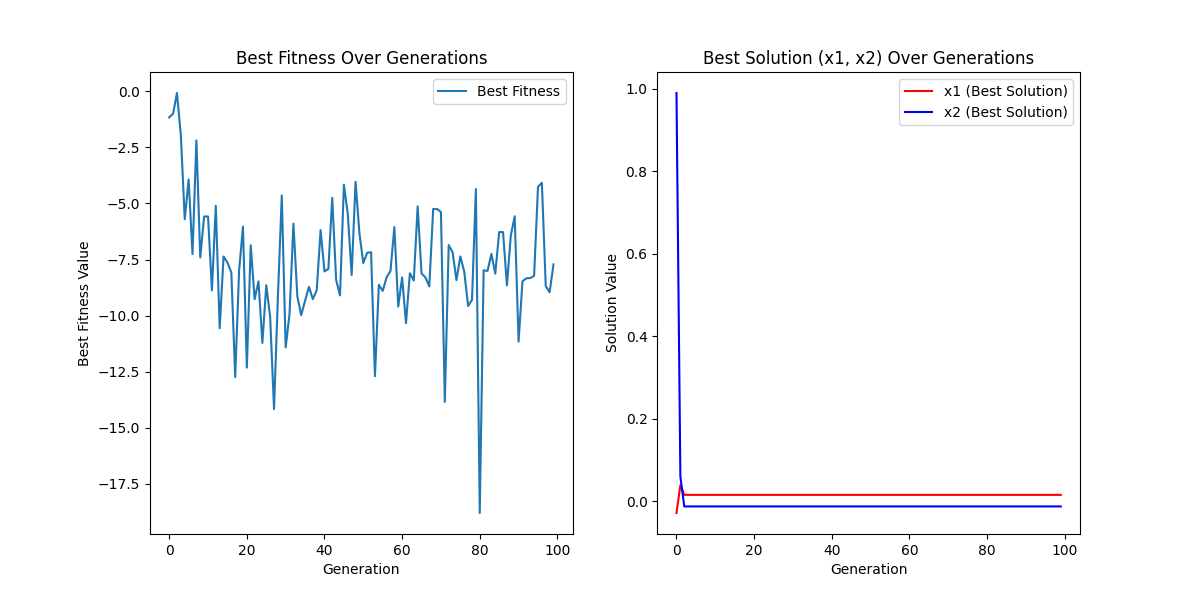
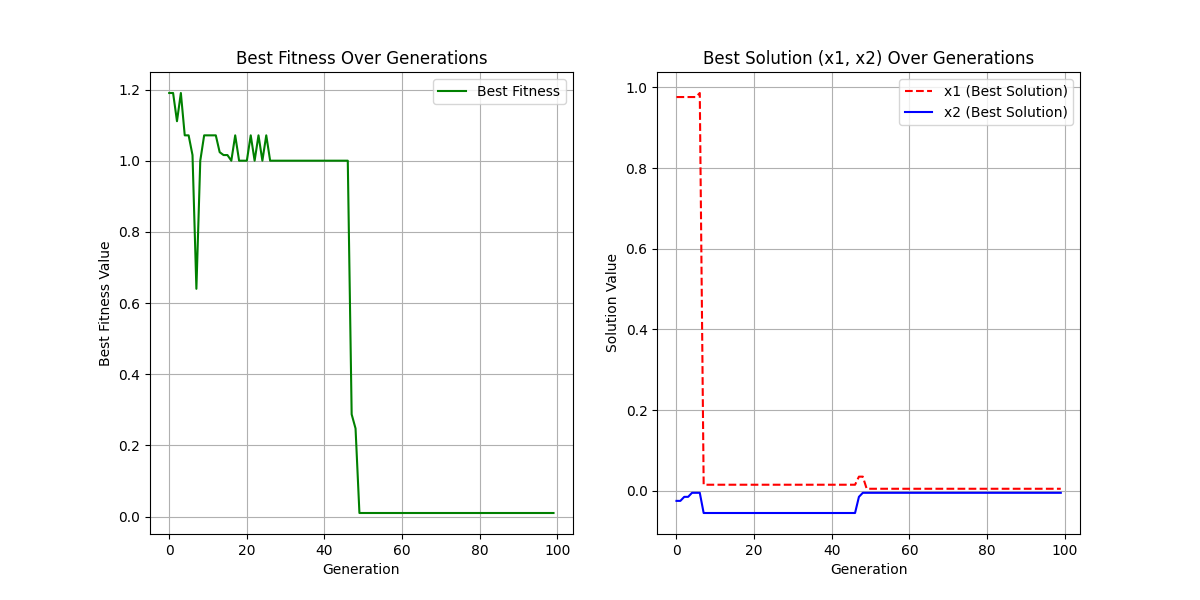
new

diff --git a/AIB_experi/minRastrigin.py b/AIB_experi/minRastrigin.py
@@ -14,7 +14,7 @@ def initialize_population(pop_size, chrom_length):  # pop_size:种群大小， c
 # 将二进制染色体解码为实际变量值(处理单个染色体)
 def decode_chromosome(chrom, bounds):  # bounds:变量的范围
     n_vars = len(bounds)  # 确定有多少个变量， n_vars=2
-    vars_length = len(chrom) // n_vars  # 每个变量对应染色体二进制长度的一半, vars_length=50
+    vars_length = len(chrom) // n_vars  # 每个变量对应染色体二进制长度的一半, vars_length=10
     decoded = []  # 存储解码后的变量值
     for i, bound in enumerate(bounds):  # enumerate是一个内置函数，用来提取可迭代对象的元素及其索引，在这里依次提取0,(-5.12, 5.12)   1,(-5.12, 5.12)
         start, end = i * vars_length, (i + 1) * vars_length  # 每个变量对应的二进制段
@@ -25,11 +25,12 @@ def decode_chromosome(chrom, bounds):  # bounds:变量的范围
         decoded.append(real_value)
     return decoded  # 返回包含x1,x2的列表[x1, x2]
 
-# 计算适应度函数值，负的rastrigin函数值(适应度越大越好)
+# 计算适应度函数值，rastrigin函数值的倒数(适应度越大越好)
 def fitness_function(chrom, bounds):
     decoded = decode_chromosome(chrom, bounds)  # [x1, x2]
-    return -rastrigin(*decoded)  # 返回负的目标函数值，*decoded是解包，将decoded列表中的元素x1,x2作为独立的参数传递给rastrigin函数，rastrigin(*decoded)等价于rastrigin(x1, x2)
-    # 因为在遗传算法中，适应度通常越大越好，所以对目标函数取负，可以使适应度越大越好
+    epsilon = 1e-10  # 添加一个小的epsilon值以避免除零错误
+    return 1 / (rastrigin(decoded[0], decoded[1]) + epsilon)  # 返回目标函数值的倒数
+    # 因为在遗传算法中，适应度通常越大越好，所以对目标函数取倒数，可以使适应度越大越好
 
 # 选择，轮盘赌，根据适应度选择种群中的个体
 def selection(population, fitness):  # population:种群，二维数组，每行表示一个个体， fitness:个体的适应度值，一维数组，与种群的个体一一对应
@@ -56,6 +57,8 @@ def mutation(chrom, p_m):
 # 遗传算法主算法
 def genetic_algorithm(bounds, precision, pop_size, chrom_length, max_generations, p_c, p_m):
     # 初始化种群
+    if pop_size % 2 != 0:
+        pop_size += 1  # 确保种群大小为偶数
     population = initialize_population(pop_size, chrom_length)  # population是一个二进制数组
     best_solution = None  # 用于记录当前最优解
     best_fitness = -np.inf  # 当前最优适应度值, np.inf表示无穷大
@@ -71,7 +74,7 @@ def genetic_algorithm(bounds, precision, pop_size, chrom_length, max_generations
             best_fitness = fitness.max()  # 更新最优适应度
             best_solution = population[fitness.argmax()]  # 更新最优解    fitness.argmax()用来获取数组中最大值索引    best_solution是适应度函数值最大的二进制串
         
-        best_fitnesses.append(fitness.max())
+        best_fitnesses.append(1 / fitness.max())
         best_solutions.append(decode_chromosome(best_solution, bounds))
 
         # 选择操作
@@ -90,13 +93,13 @@ def genetic_algorithm(bounds, precision, pop_size, chrom_length, max_generations
     
     # 解码最终的最优解
     decoded_solution = decode_chromosome(best_solution, bounds)
-    return decoded_solution, -best_fitness, best_fitnesses, best_solutions  # 返回最优解及其目标函数值
+    return decoded_solution, 1 / (best_fitness), best_fitnesses, best_solutions  # 返回最优解及其目标函数值
 
 # 参数设置
 bounds = [(-5.12, 5.12), (-5.12, 5.12)]  # 搜索空间，每个变量的上下界
 precision = 1e-15  # 求解精度
-pop_size = 10000  # 种群规模
-chrom_length = 1000  # 每个染色体的总长度（x1 和 x2 各占一半）
+pop_size = 100  # 种群规模
+chrom_length = 20  # 每个染色体的总长度（x1 和 x2 各占一半）
 max_generations = 100  # 最大迭代次数
 p_c = 0.8  # 交叉概率
 p_m = 0.01  # 变异概率
@@ -118,20 +121,36 @@ print(f"最小值：{min_value}")  # 打印最小值
 # 1. 绘制每代的最佳适应度
 plt.figure(figsize=(12, 6))
 plt.subplot(1, 2, 1)
-plt.plot(best_fitnesses, label="Best Fitness")
-plt.xlabel("Generation")
-plt.ylabel("Best Fitness Value")
-plt.title("Best Fitness Over Generations")
-plt.legend()
+plt.plot(best_fitnesses, label="Best Fitness", color="green")  # 使用绿色曲线表示适应度
+plt.xlabel("Generation")  # 横轴表示迭代代数
+plt.ylabel("Best Fitness Value")  # 纵轴表示最佳适应度值
+plt.title("Best Fitness Over Generations")  # 标题显示适应度变化趋势
+plt.legend()  # 添加图例
+
+plt.grid(True)
+
+# 确保最优解数据是一个 NumPy 数组
+best_solutions = np.array(best_solutions)  # 转换为二维数组，确保正确索引
 
 # 2. 绘制每代的最优解（x1 和 x2）
-best_solutions = np.array(best_solutions)
 plt.subplot(1, 2, 2)
-plt.plot(best_solutions[:, 0], label="x1 (Best Solution)", color="r")
-plt.plot(best_solutions[:, 1], label="x2 (Best Solution)", color="b")
-plt.xlabel("Generation")
-plt.ylabel("Solution Value")
-plt.title("Best Solution (x1, x2) Over Generations")
-plt.legend()
+plt.plot(best_solutions[:, 0], label="x1 (Best Solution)", color="red", linestyle="--")  # x1 曲线为红色虚线
+plt.plot(best_solutions[:, 1], label="x2 (Best Solution)", color="blue", linestyle="-")  # x2 曲线为蓝色实线
+plt.xlabel("Generation")  # 横轴表示迭代代数
+plt.ylabel("Solution Value")  # 纵轴表示最优解值
+plt.title("Best Solution (x1, x2) Over Generations")  # 标题显示解值变化趋势
+plt.legend()  # 添加图例
 
-plt.savefig('/home/wtejing/Python/AIB_experi/best_solution_plot.png')
+plt.grid(True)
+
+# 保存绘图
+output_path = "/home/wtejing/Python/AIB_experi/best_solution_plot.png"  # 输出路径
+try:
+    plt.savefig(output_path)  # 保存为 PNG 格式
+    print(f"绘图已保存至 {output_path}")
+except FileNotFoundError:
+    print("文件路径不存在，请检查路径是否正确。")
+
+# 显示绘图
+plt.tight_layout()  # 调整子图布局，防止重叠
+plt.show()
